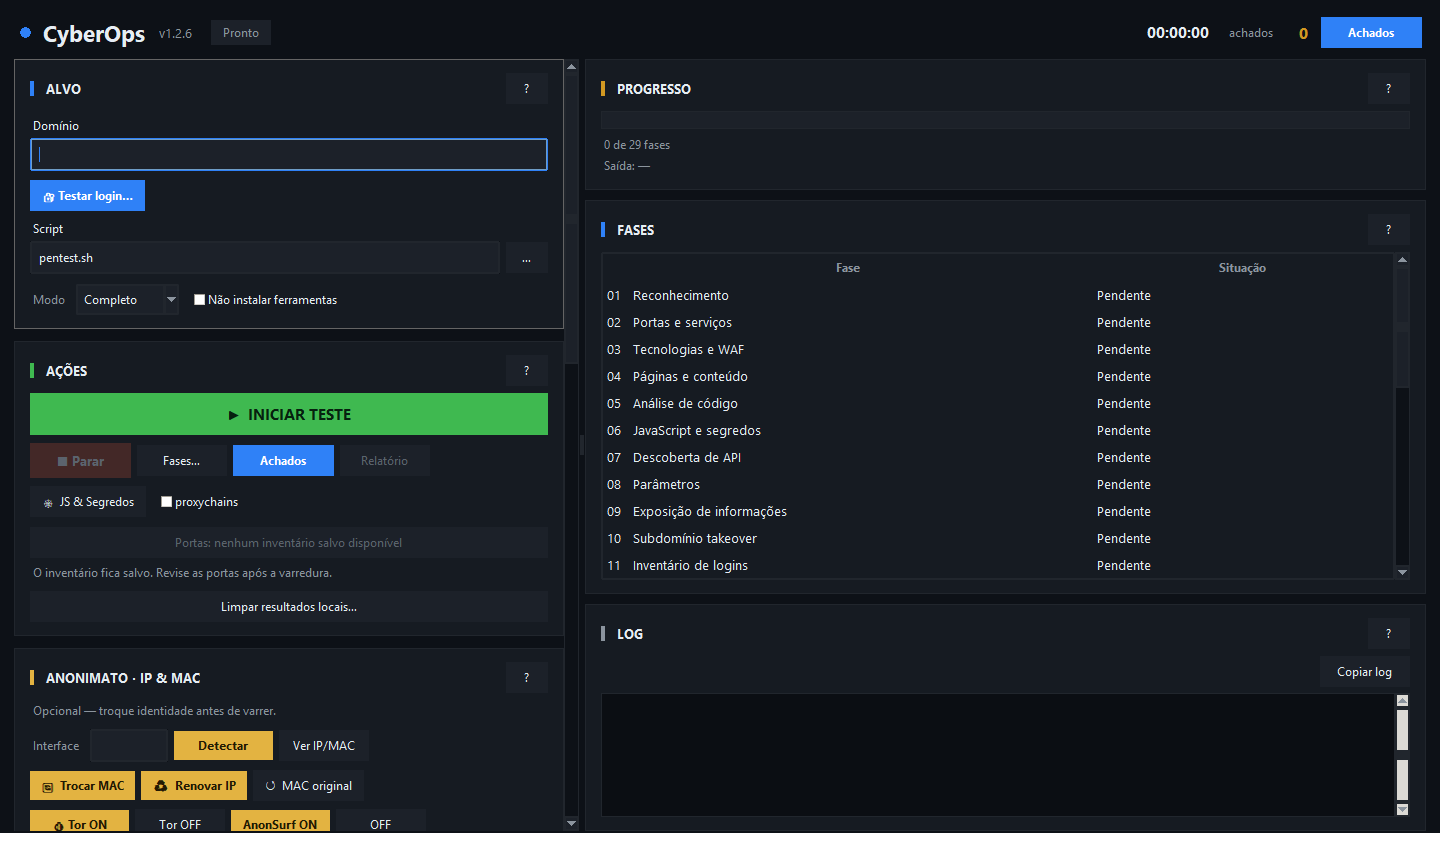
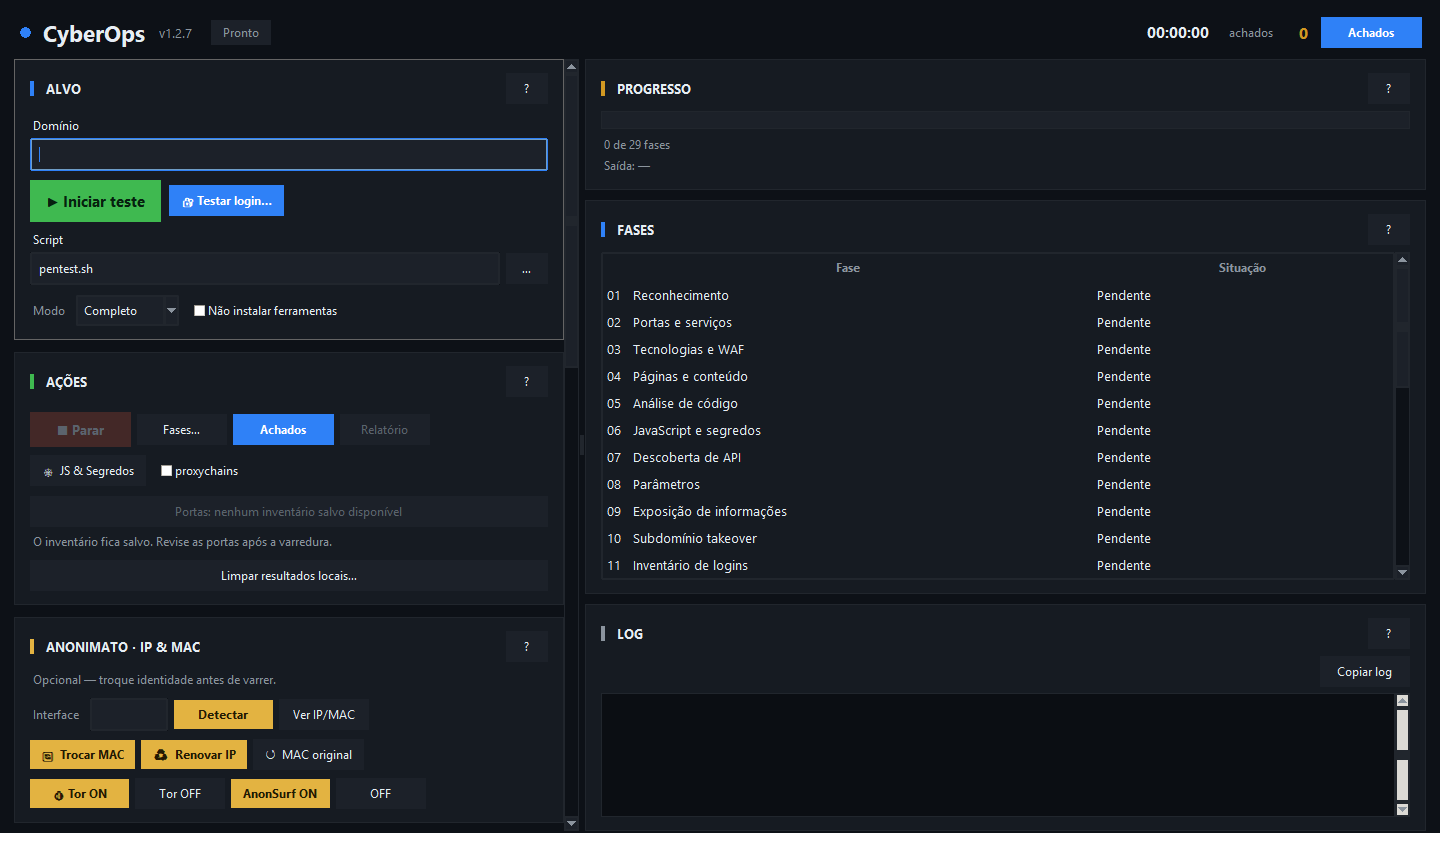
CyberOps v1.2.7: botoes no alvo e dicas de ferramentas por fase

diff --git a/pentest_gui.py b/pentest_gui.py
@@ -54,7 +54,7 @@ PHASES=[
  (26,'Resposta a Host alterado (sem CRLF)'),
  (27,'Coleta de identificadores'),
  (28,'Orientação para validar contas'),
- (29,'Teste de senhas (manual na GUI)')]
+ (29,'Teste de senhas (manual no CyberOps)')]
 ESSENTIAL={1,2,3,4,5,6,7,8,9,15}
 PHASE_RE=re.compile(r'FASE\s+(\d+)')
 ANSI=re.compile(r'\x1b\[[0-9;]*[A-Za-z]')
@@ -291,7 +291,10 @@ class CyberOps:
         c.columnconfigure(0,weight=1)
         self.lbl(c,'Domínio',0)
         e=ttk.Entry(c,textvariable=self.target); e.grid(row=1,column=0,columnspan=3,sticky='ew'); e.focus_set()
-        ttk.Button(c,text='🔐 Testar login…',style='Accent.TButton',command=self.open_login_modal).grid(row=2,column=0,columnspan=3,sticky='w',pady=(9,3))
+        actions=tk.Frame(c,bg=PANEL); actions.grid(row=2,column=0,columnspan=3,sticky='w',pady=(9,3))
+        self.start_btn=ttk.Button(actions,text='▶ Iniciar teste',style='Start.TButton',command=self.start)
+        self.start_btn.pack(side='left')
+        ttk.Button(actions,text='🔐 Testar login…',style='Accent.TButton',command=self.open_login_modal).pack(side='left',padx=(8,0))
         self.lbl(c,'Script',3)
         ttk.Entry(c,textvariable=self.script).grid(row=4,column=0,columnspan=2,sticky='ew')
         ttk.Button(c,text='…',width=3,command=self.browse).grid(row=4,column=2,padx=(6,0))
@@ -302,8 +305,6 @@ class CyberOps:
 
     def sec_acoes(self,L):
         c=self.card(L,'AÇÕES',GREEN)
-        self.start_btn=ttk.Button(c,text='▶  INICIAR TESTE',style='Start.TButton',command=self.start)
-        self.start_btn.pack(fill='x')
         r=tk.Frame(c,bg=PANEL); r.pack(fill='x',pady=(8,0))
         self.stop_btn=ttk.Button(r,text='■ Parar',style='Stop.TButton',command=self.stop,state='disabled'); self.stop_btn.pack(side='left')
         ttk.Button(r,text='Fases…',command=self.sel_phases).pack(side='left',padx=6)
@@ -606,6 +607,12 @@ class CyberOps:
         self.tree.pack(side='left',fill='both',expand=True); self.tree.bind('<Double-1>',self.open_phase_detail)
         sb=ttk.Scrollbar(c,orient='vertical',command=self.tree.yview); sb.pack(side='right',fill='y'); self.tree.configure(yscrollcommand=sb.set)
         for n,nm in PHASES: self.phase_rows[n]=self.tree.insert('','end',values=(f'{n:02d}   {nm}','Pendente'))
+        self.tree.bind('<Motion>',self.phase_hover)
+        self.tree.bind('<Leave>',self.hide_phase_tip)
+        self.tree.bind('<ButtonPress>',self.hide_phase_tip,add='+')
+        self.tree.bind('<MouseWheel>',self.hide_phase_tip,add='+')
+        self.tree.bind('<Button-4>',self.hide_phase_tip,add='+')
+        self.tree.bind('<Button-5>',self.hide_phase_tip,add='+')
         c=self.card(R,'LOG',MUTED,pady=(0,0))
         ttk.Button(c,text='Copiar log',command=lambda:self.copy_panel(widget=self.log)).pack(anchor='e',pady=(0,6))
         self.log=tk.Text(c,wrap='none',bg='#0b0e13',fg='#c9d1d9',insertbackground=ACCENT,font=('Monospace',10),
@@ -623,6 +630,28 @@ class CyberOps:
         if text:
             self.root.clipboard_clear(); self.root.clipboard_append(text)
         return 'break'
+
+    def hide_phase_tip(self,event=None):
+        tip=getattr(self,'phase_tip',None)
+        if tip is not None and tip.winfo_exists(): tip.destroy()
+        self.phase_tip=None; self.phase_tip_row=None
+
+    def phase_hover(self,event):
+        row=self.tree.identify_row(event.y)
+        if row==getattr(self,'phase_tip_row',None): return
+        self.hide_phase_tip()
+        phase=next((n for n,item in self.phase_rows.items() if item==row),None)
+        if phase is None: return
+        self.phase_tip_row=row
+        tip=tk.Toplevel(self.root); self.phase_tip=tip
+        tip.overrideredirect(True)
+        tk.Label(tip,text=f'Fase {phase:02d} · Ferramentas previstas\n{self.PHASE_TOOLS.get(phase,"Consultar log")}',
+                 bg=PANEL2,fg=FG,justify='left',padx=10,pady=7,wraplength=360,
+                 relief='solid',borderwidth=1).pack()
+        tip.update_idletasks()
+        x=max(0,min(event.x_root+14,tip.winfo_screenwidth()-tip.winfo_reqwidth()))
+        y=max(0,min(event.y_root+18,tip.winfo_screenheight()-tip.winfo_reqheight()))
+        tip.geometry(f'+{x}+{y}')
 
     # Inventário de cada fase, independente de ser vulnerabilidade.
     PHASE_FILES={

diff --git a/README.md b/README.md
@@ -2,12 +2,12 @@
   <img src="docs/images/banner.svg" alt="OP Cybernetica I" width="100%">
 </p>
 
-# CyberOps — v1.2.6
+# CyberOps — v1.2.7
 
 **Ferramenta de apoio à auditoria de segurança de aplicações web para Kali Linux**, com interface gráfica, execução pelo terminal, reconhecimento de domínios, inventário técnico, acompanhamento das fases, relatórios HTML e integração opcional com Telegram.
 
 **Repositório oficial:** https://github.com/Luistn/Pentest-cyberops  
-**Versão:** v1.2.6
+**Versão:** v1.2.7
 
 > **Uso autorizado:** execute verificações ativas somente em sistemas próprios ou com autorização expressa. URLs de terceiros identificadas durante a coleta, como CDNs e redes sociais, não passam automaticamente a integrar o escopo autorizado. Um alerta automatizado não comprova, por si só, uma vulnerabilidade.
 
@@ -27,7 +27,7 @@ O **OP Cybernetica I** reúne em uma interface única recursos de apoio à anál
 - **Acompanhamento:** visualização de progresso, logs e achados durante a execução.
 - **Relatórios:** geração de HTML ao concluir ou interromper uma análise, com os resultados disponíveis até aquele momento.
 - **Telegram:** notificações e tentativa de envio do relatório para um chat configurado.
-- **Terminal ou GUI:** execução por comandos `cyberops` ou pela interface gráfica.
+- **Terminal ou CyberOps:** execução por comandos `cyberops` ou pela interface gráfica.
 
 **Limitações:** nem todas as fases se aplicam a todos os sites. Algumas dependem de ferramentas externas não instaladas pelos requisitos básicos. Informações de titulares e contatos podem estar ocultas por privacidade. Resultados precisam ser revisados manualmente.
 
@@ -91,7 +91,6 @@ Na interface, informe **um alvo autorizado**, escolha o modo e as fases desejada
 ```bash
 cyberops                                  # abre a interface gráfica
 cyberops open                             # abre a interface gráfica
-cyberops --gui                            # abre a interface gráfica
 cyberops --h                              # exibe a ajuda
 cyberops --versao                         # exibe a versão instalada
 cyberops --alvo "https://exemplo.com" --rapido
@@ -213,7 +212,7 @@ orientação de correção e declaração sobre exploração demonstrada. Nenhum
 checks confirma exploração. Reexecute com os parâmetros de `reproduce` para
 reproduzir a observação. Porta acessível só é problema de exposição quando o acesso
 contraria a política do projeto. Erro de conexão não comprova vulnerabilidade.
-Na GUI, a revisão de portas gera `02_portas/database_review.json` para as portas
+No CyberOps, a revisão de portas gera `02_portas/database_review.json` para as portas
 padrão selecionadas (3306, 5432, 1433, 27017), disponível nas evidências da fase 2.
 O comando separado permite diagnosticar serviços em portas personalizadas.
 
@@ -254,8 +253,11 @@ Os IDs públicos 1–29 permanecem estáveis. As funções e pastas internas usa
 - 27–29: inventário de identificadores, orientação de validação de contas e indicação do teste manual de senhas.
 - 20: revisão básica de autorização executada por último, uma única vez, quando selecionada ou incluída pelas fases 27/28. Não valida automaticamente contas nem permissões entre usuários.
 
-O modo Rápido usa 1,2,3,4,5,6,7,8,9,15; Completo e Profundo compartilham a seleção de fases atual. Uma seleção personalizada na GUI substitui a seleção do modo. Selecionar fases isoladas não executa automaticamente todas as dependências: por exemplo, os inventários de parâmetros/redirect/SSRF dependem das URLs da fase 4, takeover depende da fase 1, e SQLi/XSS dependem dos parâmetros da fase 8. Verifique os arquivos e o contexto da execução.
+O modo Rápido usa 1,2,3,4,5,6,7,8,9,15; Completo e Profundo compartilham a seleção de fases atual. Uma seleção personalizada no CyberOps substitui a seleção do modo. Selecionar fases isoladas não executa automaticamente todas as dependências: por exemplo, os inventários de parâmetros/redirect/SSRF dependem das URLs da fase 4, takeover depende da fase 1, e SQLi/XSS dependem dos parâmetros da fase 8. Verifique os arquivos e o contexto da execução.
 
-O log registra a ordem planejada. Falhas com código diferente de zero aparecem como Falha/parcial na GUI e afetam o resultado final. Conclusão de uma etapa não significa que ela confirmou uma vulnerabilidade ou que todas as ferramentas opcionais foram executadas.
+O log registra a ordem planejada. Falhas com código diferente de zero aparecem como Falha/parcial no CyberOps e afetam o resultado final. Conclusão de uma etapa não significa que ela confirmou uma vulnerabilidade ou que todas as ferramentas opcionais foram executadas.
 
 Os valores encontrados pelo inventário ficam visíveis integralmente na coluna Valor, com arquivo, linha e coluna. Isso inclui senhas, tokens, chaves e CPF. Esta mudança vale para novas coletas; relatórios antigos não são reescritos automaticamente. Relatórios HTML e arquivos enviados ao Telegram podem conter esses valores completos. Os nomes dados_sensiveis_mascarados.tsv/json são legados, mantidos por compatibilidade; novas coletas nesses arquivos não mascaram valores.
+
+
+Na v1.2.7, Iniciar teste fica ao lado e antes de Testar login. Passe o mouse sobre uma fase para consultar as ferramentas previstas; isso não confirma que elas estão instaladas.

diff --git a/CHANGELOG.md b/CHANGELOG.md
@@ -1,5 +1,15 @@
 # Histórico de versões
 
+## v1.2.7 — Botões e ferramentas por fase
+
+- Textos visíveis e ajuda usam CyberOps no lugar da sigla anterior. O argumento antigo permanece aceito por compatibilidade, sem aparecer na ajuda.
+- Botão Iniciar teste movido para antes e ao lado de Testar login, na seção Alvo.
+- Dica ao passar o mouse sobre cada fase mostra as ferramentas previstas; não indica instalação ou execução confirmada.
+- Capturas da interface e banner atualizados.
+
+Validação: testes de release/relatório, sintaxe Bash, ajuda do comando e verificação da posição dos botões e dicas na interface local.
+
+
 ## v1.2.6 — Diagnósticos de fases, cópia e valores completos
 
 Melhora o diagnóstico das fases 9, 12, 13, 20 e 23–26: mostra status, evidências, candidatos e limitações, inclusive quando não há resultados ou a consulta falha.

diff --git a/docs/CAPTURAS.md b/docs/CAPTURAS.md
@@ -1,6 +1,6 @@
 # Capturas reais do programa
 
-As imagens `images/interface-real.png`, `images/telegram-real.png` e `images/login-real.png` mostram a interface v1.2.6 executada no Windows, com configurações vazias e **sem dados reais de alvos ou tokens**. A aparência no Kali varia conforme fontes e tema. Não são mockups nem imagens geradas por IA.
+As imagens `images/interface-real.png`, `images/telegram-real.png` e `images/login-real.png` mostram a interface v1.2.7 executada no Windows, com configurações vazias e **sem dados reais de alvos ou tokens**. A aparência no Kali varia conforme fontes e tema. Não são mockups nem imagens geradas por IA.
 
 Para tirar novas capturas no seu próprio Kali:
 

diff --git a/docs/RELEASE_v1.2.7.md b/docs/RELEASE_v1.2.7.md
@@ -1,0 +1,8 @@
+## CyberOps v1.2.7
+
+- Textos visíveis e ajuda usam CyberOps no lugar da sigla anterior. O argumento antigo permanece aceito por compatibilidade, sem aparecer na ajuda.
+- Botão Iniciar teste movido para antes e ao lado de Testar login, na seção Alvo.
+- Dica ao passar o mouse sobre cada fase mostra as ferramentas previstas; não indica instalação ou execução confirmada.
+- Capturas da interface e banner atualizados.
+
+Validação: testes de release/relatório, sintaxe Bash, ajuda do comando e verificação da posição dos botões e dicas na interface local.
